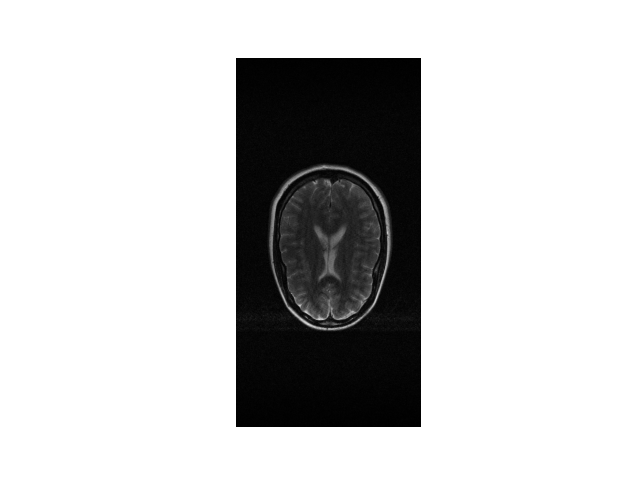
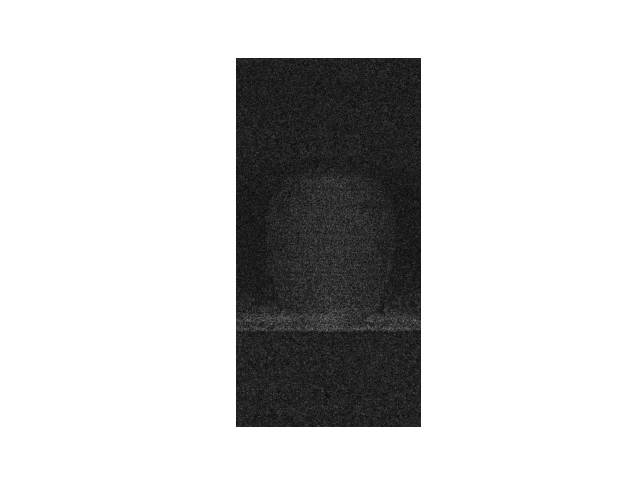
no scaling, more noise

Changed region(s): [[0.3438, 0.0938, 0.6562, 0.9062]]

diff --git a/my_CDLNet/sense.py b/my_CDLNet/sense.py
@@ -52,13 +52,13 @@ def main(args):
     # Send to GPU
     smaps = smaps.to(device)
     # Scale kspace and send to GPU
-    kspace = kspace.to(device) * 1e5
+    kspace = kspace.to(device)
     mask = mask.to(device)
     # Mask kspace
     kspace_masked = mask * kspace
     # Try adding some noise to kspace
-    kspace_masked = kspace_masked + 0.1*torch.randn_like(kspace_masked)
-
+    kspace_masked = kspace_masked + 0.05*torch.randn_like(kspace_masked)
+    
 
     gnd_truth = (mri_decoding(kspace, torch.ones(smaps.shape[1], smaps.shape[2], device = device), smaps))
     saveimg(gnd_truth, "EHy.png")
